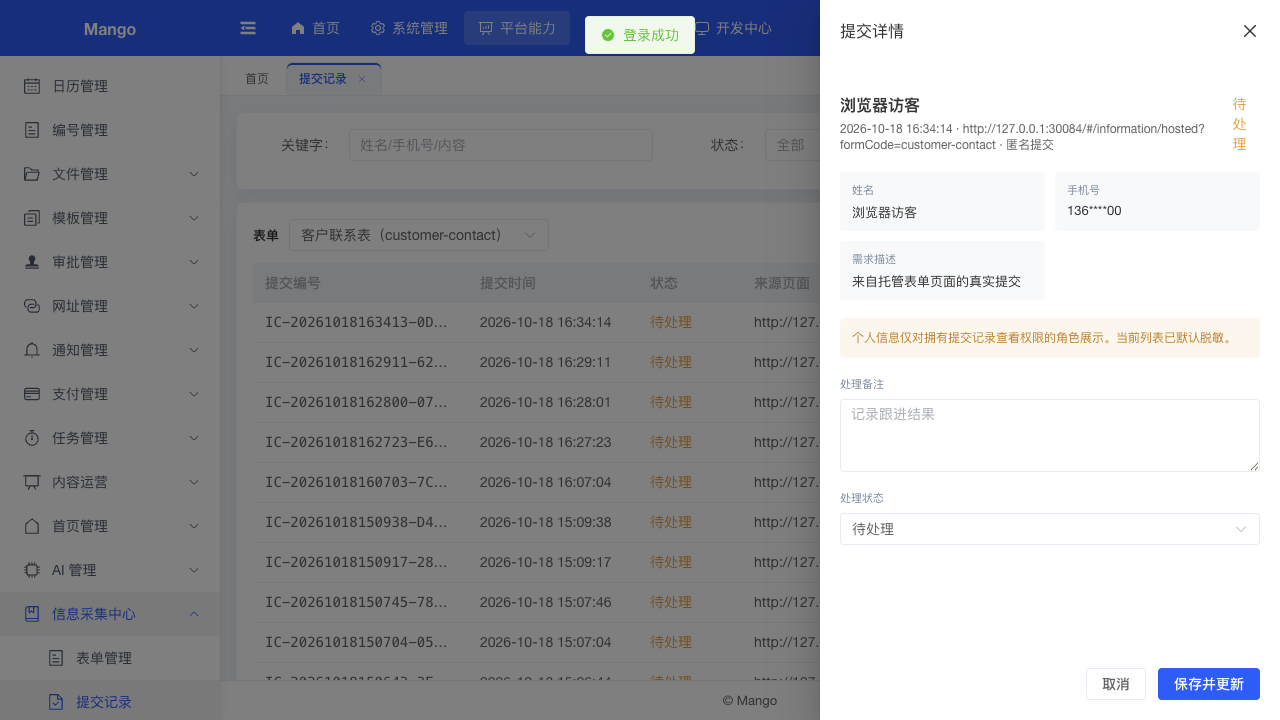
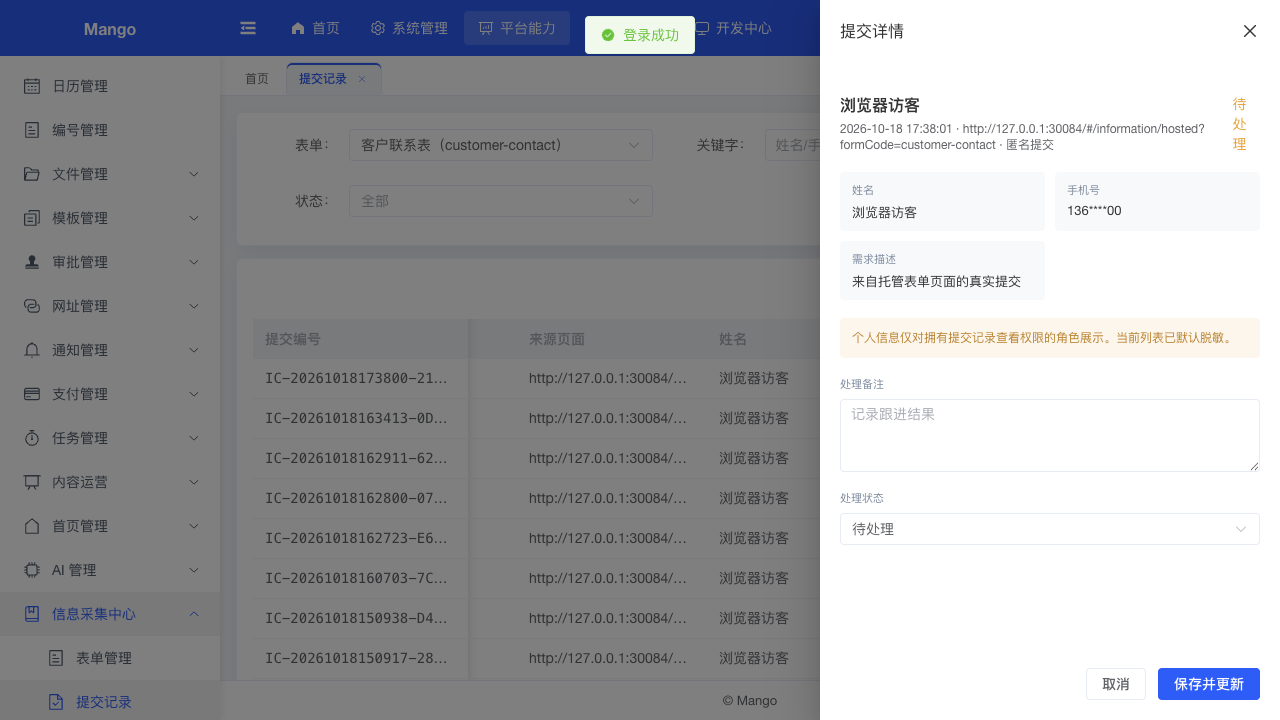
fix(information): move the form selector into the submission filter panel
The current form is now the first filter beside keyword and status, so the
list toolbar only keeps the pending counter and export action.

diff --git a/mango-ui/packages/information/src/views/SubmissionsView.vue b/mango-ui/packages/information/src/views/SubmissionsView.vue
@@ -1,6 +1,16 @@
 <template>
   <div class="information-page" data-page="information.form.submissions">
     <MangoSearchPanel :model="query" :columns="4" @search="search" @reset="reset">
+      <el-form-item label="表单">
+        <el-select v-model="query.formId" data-filter="form" filterable placeholder="请选择表单" @change="onFormChange">
+          <el-option
+            v-for="item in formOptions"
+            :key="item.id"
+            :label="`${item.formName}（${item.formCode}）`"
+            :value="item.id"
+          />
+        </el-select>
+      </el-form-item>
       <el-form-item label="关键字">
         <el-input v-model="query.keyword" placeholder="姓名/手机号/内容" clearable @keyup.enter="search" />
       </el-form-item>
@@ -15,26 +25,6 @@
     </MangoSearchPanel>
 
     <MangoListPanel>
-      <template #actions>
-        <span class="information-form-context">
-          <strong>表单</strong>
-          <el-select
-            v-model="query.formId"
-            data-filter="form"
-            filterable
-            placeholder="请选择表单"
-            style="width: 260px"
-            @change="onFormChange"
-          >
-            <el-option
-              v-for="item in formOptions"
-              :key="item.id"
-              :label="`${item.formName}（${item.formCode}）`"
-              :value="item.id"
-            />
-          </el-select>
-        </span>
-      </template>
       <template #view-actions>
         <MangoStatusText v-if="pendingCount" tone="warning">{{ pendingCount }} 条待处理</MangoStatusText>
         <el-button data-action="information.submission.export" :disabled="!rows.length" @click="exportRows">

diff --git a/mango-docs/evidence/issue-1055/acceptance-evidence.md b/mango-docs/evidence/issue-1055/acceptance-evidence.md
@@ -22,7 +22,7 @@
 |---|---|---|---|---|---|---|---|---|---|
 | TASK-008 | TC-001 | `GET /authorization/menus/user`、`GET /information/forms/page` | 菜单与表单查询 | 管理员登录后的真实租户 | 信息采集中心下只有 `表单管理` 一个可见菜单；列表按原型返回表单名称/编码/备注/状态/提交量/创建日期/更新日期/创建人 | 侧边菜单与原型一致，页面级 `data-page` 存在 | 接口 HTTP 200，页面无 Vue 运行时错误 | `screenshots/01-form-list.png` | DONE |
 | TASK-002 | TC-001 | `/#/information/forms/:id/detail`、`.../config` | 表单详情与表单设计 | 表单 `customer-contact` | 详情展示 3 列描述表、字段配置表和接入方式卡片；配置页直接复用平台表单设计器（`form-create-designer`，与工作流表单设计器同源），提供组件面板、可拖拽画布、字段选中与属性配置；保存和刷新后规则保持不变；重复编码返回 `105501` | 详情返回栏与操作按钮可点，设计器组件面板、画布和属性面板可见 | 接口 HTTP 200 + 业务错误码 | `screenshots/02-form-detail.png`、`screenshots/03-form-designer.png` | DONE |
-| TASK-003 | TC-003 | `/#/information/submissions` | 独立菜单入口、动态提交列与处理抽屉 | 真实提交记录 | 提交记录是「信息采集中心」下的独立菜单，页面不依赖表单详情、无返回按钮；通过表单下拉筛选切换当前表单；固定列 + 当前表单动态列 + 操作列；抽屉含记录摘要、脱敏字段、处理备注与状态 | 独立菜单可直达，表单筛选生效，手机号脱敏为 `136****00` | 接口 HTTP 200 | `screenshots/05-submission-list.png`、`screenshots/06-submission-detail.png` | DONE |
+| TASK-003 | TC-003 | `/#/information/submissions` | 独立菜单入口、动态提交列与处理抽屉 | 真实提交记录 | 提交记录是「信息采集中心」下的独立菜单，页面不依赖表单详情、无返回按钮；当前表单通过顶部筛选框的「表单」下拉切换；固定列 + 当前表单动态列 + 操作列；抽屉含记录摘要、脱敏字段、处理备注与状态 | 独立菜单可直达，表单筛选生效，手机号脱敏为 `136****00` | 接口 HTTP 200 | `screenshots/05-submission-list.png`、`screenshots/06-submission-detail.png` | DONE |
 | TASK-003 | TC-003 | `/#/information/submissions` 表单筛选 | 提交记录列由当前表单字段定义驱动 | `customer-contact`（姓名/手机号/需求描述）与 `e2e-dynamic-columns`（公司名称/企业规模/分割线）两份表单 | 切换表单后列集合随之变化：只出现本表单采集项，不出现其它表单字段；展示型/布局型规则不生成列；选择型控件展示选项标签（`大型`）而不是存储值（`l`） | 两个表单的列表列集合互不相同 | 列表接口 HTTP 200 | `screenshots/05-submission-list.png`、`screenshots/09-submission-dynamic-columns.png` | DONE |
 | TASK-004 | TC-002 | 分享地址 `http://127.0.0.1:30084/#/information/hosted?formCode=customer-contact` | 分享网址免登录提交 | 姓名、手机号、需求描述 | 全新浏览器会话、无登录态直接打开分享地址即可渲染表单并提交；接入页复制的地址为绝对地址 | 未跳转登录页，必填校验生效，提交后弹出成功结果 | 公开接口匿名 HTTP 200 | `screenshots/07-hosted-form.png`、`screenshots/08-hosted-submit-success.png` | DONE |
 | TASK-005 | TC-004 | `POST /information/open/forms/submit` | 服务端 SK 校验 | 错误 SK、正确 SK | 错误 SK 返回 `105507`；正确 SK 成功写入提交 | 接口层验收，无页面交互 | 公开接口返回 HTTP 200，业务码为预期错误码 | 本节接口记录 | DONE |

diff --git a/mango-docs/evidence/issue-1055/manual-acceptance-guide.md b/mango-docs/evidence/issue-1055/manual-acceptance-guide.md
@@ -41,8 +41,8 @@
 
 | 编号 | 操作 | 预期结果 |
 |---|---|---|
-| B1 | 从左侧菜单进入「提交记录」 | 是独立菜单入口，页面没有返回按钮；工具栏左侧是表单下拉筛选，右侧是「N 条待处理」与「导出记录」；列为提交编号 / 提交时间 / 状态 / 来源页面 + 当前表单动态采集项列 + 操作 |
-| B10 | 在提交记录页切换另一张字段不同的表单 | 列表列随该表单字段定义变化，只显示本表单采集项；展示型/布局型控件不生成列；选择型控件显示选项标签 |
+| B1 | 从左侧菜单进入「提交记录」 | 是独立菜单入口，页面没有返回按钮；顶部筛选框为「表单 / 关键字 / 状态」＋查询/重置，列表右上角是「N 条待处理」与「导出记录」；列为提交编号 / 提交时间 / 状态 / 来源页面 + 当前表单动态采集项列 + 操作 |
+| B10 | 在顶部筛选框切换另一张字段不同的表单后查询 | 列表列随该表单字段定义变化，只显示本表单采集项；展示型/布局型控件不生成列；选择型控件显示选项标签 |
 | B2 | 观察「导出当前筛选」按钮初始状态 | 有数据时可点击 |
 | B3 | 点击「详情」 | 右侧抽屉展示提交详情：标题为第一个采集项取值、时间 · 来源 · 匿名提交、状态、脱敏后的字段卡片、个人信息说明、处理备注与处理状态 |
 | B4 | 在抽屉内选择「已完成」并点击「保存并更新」 | 抽屉关闭，列表状态变为「已完成」 |
